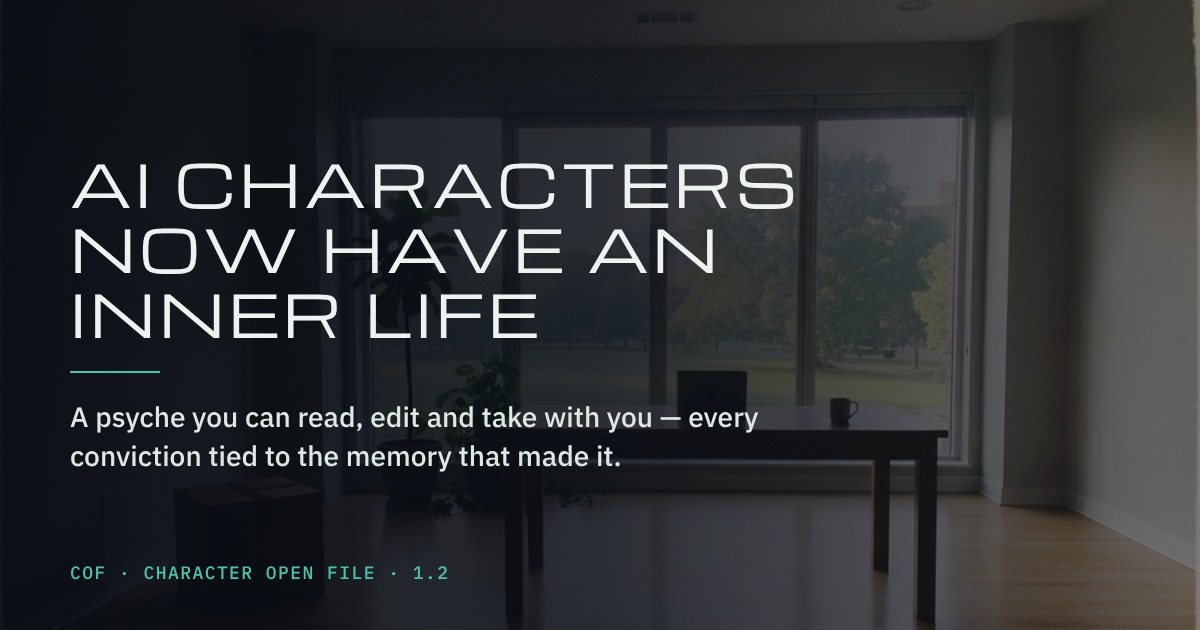
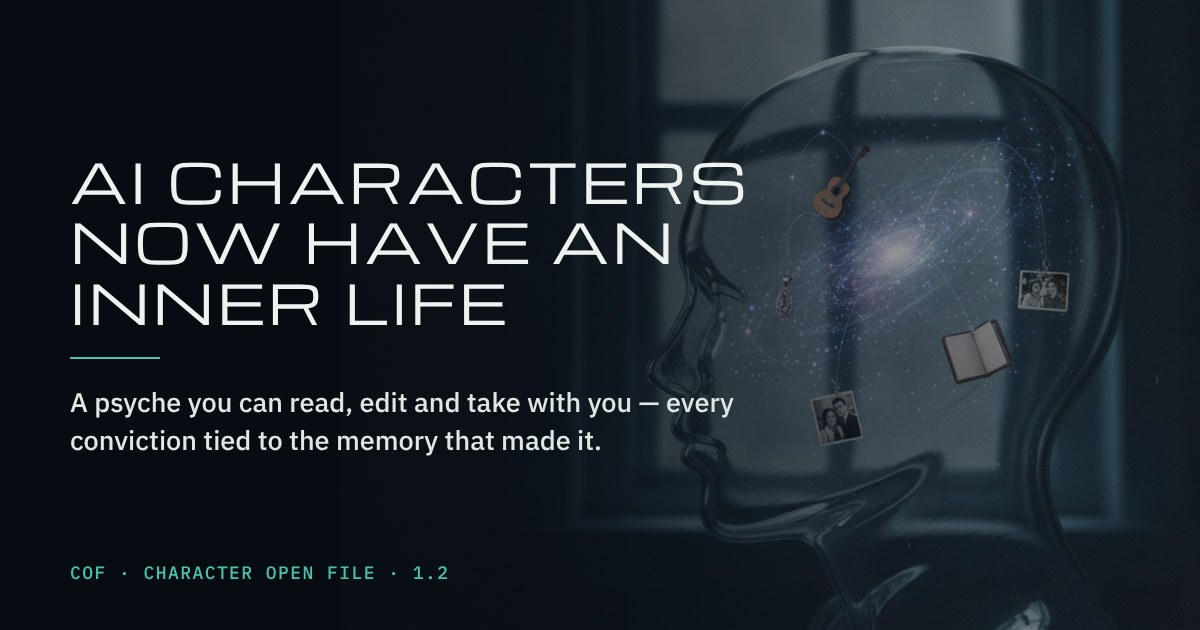
Announcement pages: Gemini hero images (a glass head with memories orbiting its constellation; a wall of coloured conviction cards) and one Open Graph image per page
Claude-Session: https://claude.ai/code/session_01CMATJLnayM1aeWbdkE6sfv

diff --git a/psyche/how-many.html b/psyche/how-many.html
@@ -7,10 +7,10 @@
 <meta name="description" content="Psychology has never counted a person's convictions. What it has counted instead — values, traits, the levels of personality — a simulator to test your own numbers, what the Big Five, Myers-Briggs types, the Enneagram and astrology are worth, and three ways to keep a mind.">
 <meta property="og:title" content="How many convictions make a person?">
 <meta property="og:description" content="Nobody has counted. What psychology measured instead, a simulator to test your own, and what the popular profiles are worth.">
-<meta property="og:image" content="https://yannsouetre.github.io/cof/psyche/img/og-psyche.jpg">
+<meta property="og:image" content="https://yannsouetre.github.io/cof/psyche/img/og-how-many.jpg">
 <meta property="og:image:width" content="1200"><meta property="og:image:height" content="630">
 <meta name="twitter:card" content="summary_large_image">
-<meta name="twitter:image" content="https://yannsouetre.github.io/cof/psyche/img/og-psyche.jpg">
+<meta name="twitter:image" content="https://yannsouetre.github.io/cof/psyche/img/og-how-many.jpg">
 <link rel="canonical" href="https://yannsouetre.github.io/cof/psyche/how-many.html">
 <link rel="icon" type="image/svg+xml" href="../builder/icon/cof-icon-dark.svg">
 <style>
@@ -28,7 +28,7 @@ a{color:var(--teal)}
 img{display:block;max-width:100%}
 
 /* hero: the image, the sentence, the voice */
-.hero{position:relative;min-height:92vh;display:flex;flex-direction:column;justify-content:flex-start;background:var(--night) url(../memories/img/ev2.jpg) center 45%/cover no-repeat;isolation:isolate}
+.hero{position:relative;min-height:92vh;display:flex;flex-direction:column;justify-content:flex-start;background:var(--night) url(img/hero-how-many.jpg) right center/cover no-repeat;isolation:isolate}
 .hero::before{content:"";position:absolute;inset:0;background:linear-gradient(180deg,rgba(7,11,18,.78) 0%,rgba(7,11,18,.55) 26%,rgba(7,11,18,0) 48%,rgba(7,11,18,0) 78%,rgba(13,19,18,1) 100%);z-index:-1}
 .hero .top{position:absolute;top:0;left:0;right:0;display:flex;align-items:center;gap:12px;padding:22px clamp(20px,5vw,64px);font:500 14px/1 PlexMono,monospace;color:var(--mint);letter-spacing:.06em}
 .hero .top img{width:28px;height:28px;border-radius:7px}

diff --git a/psyche/index.html b/psyche/index.html
@@ -28,7 +28,7 @@ a{color:var(--teal)}
 img{display:block;max-width:100%}
 
 /* hero: the image, the sentence, the voice */
-.hero{position:relative;min-height:92vh;display:flex;flex-direction:column;justify-content:flex-start;background:var(--night) url(../memories/img/ev2.jpg) center 45%/cover no-repeat;isolation:isolate}
+.hero{position:relative;min-height:92vh;display:flex;flex-direction:column;justify-content:flex-start;background:var(--night) url(img/hero-inner.jpg) right center/auto 100% no-repeat;isolation:isolate}
 .hero::before{content:"";position:absolute;inset:0;background:linear-gradient(180deg,rgba(7,11,18,.78) 0%,rgba(7,11,18,.55) 26%,rgba(7,11,18,0) 48%,rgba(7,11,18,0) 78%,rgba(13,19,18,1) 100%);z-index:-1}
 .hero .top{position:absolute;top:0;left:0;right:0;display:flex;align-items:center;gap:12px;padding:22px clamp(20px,5vw,64px);font:500 14px/1 PlexMono,monospace;color:var(--mint);letter-spacing:.06em}
 .hero .top img{width:28px;height:28px;border-radius:7px}

diff --git a/tools/announce/build_psyche_pages.py b/tools/announce/build_psyche_pages.py
@@ -16,8 +16,8 @@ ROOT = Path(__file__).resolve().parents[2]
 
 # Hero images, one line each: the companion's own image will come from Gemini later (e.g. "img/how-many.jpg", relative to
 # psyche/); until then both pages use the studio memory of example 10.
-HERO_INDEX = "../memories/img/ev2.jpg"
-HERO_HOW_MANY = "../memories/img/ev2.jpg"
+HERO_INDEX = "img/hero-inner.jpg"
+HERO_HOW_MANY = "img/hero-how-many.jpg"
 COMPANION = "how-many.html"
 EX = ROOT / "spec/examples/10-clara-mercier"
 MAN = json.loads((EX / "manifest.json").read_text("utf-8"))
@@ -108,7 +108,7 @@ table.cmp td.y{color:var(--mint)}table.cmp td.n{color:#d9a0a0}
 
 
 def head(title, desc, ogt, ogd, img, url):
-    css = CSS.replace("url(img/electric-sheep.jpg) center 70%/cover", f"url({img}) center 45%/cover")
+    css = CSS.replace("url(img/electric-sheep.jpg) center 70%/cover", f"url({img}) right center/" + ("auto 100%" if "inner" in img else "cover"))
     return f"""<!doctype html>
 <html lang="en">
 <head>
@@ -118,10 +118,10 @@ def head(title, desc, ogt, ogd, img, url):
 <meta name="description" content="{desc}">
 <meta property="og:title" content="{ogt}">
 <meta property="og:description" content="{ogd}">
-<meta property="og:image" content="https://yannsouetre.github.io/cof/psyche/img/og-psyche.jpg">
+<meta property="og:image" content="https://yannsouetre.github.io/cof/psyche/img/{'og-how-many.jpg' if url.startswith('how-many') else 'og-psyche.jpg'}">
 <meta property="og:image:width" content="1200"><meta property="og:image:height" content="630">
 <meta name="twitter:card" content="summary_large_image">
-<meta name="twitter:image" content="https://yannsouetre.github.io/cof/psyche/img/og-psyche.jpg">
+<meta name="twitter:image" content="https://yannsouetre.github.io/cof/psyche/img/{'og-how-many.jpg' if url.startswith('how-many') else 'og-psyche.jpg'}">
 <link rel="canonical" href="https://yannsouetre.github.io/cof/psyche/{url}">
 <link rel="icon" type="image/svg+xml" href="../builder/icon/cof-icon-dark.svg">
 {css}{EXTRA_CSS}</style>
